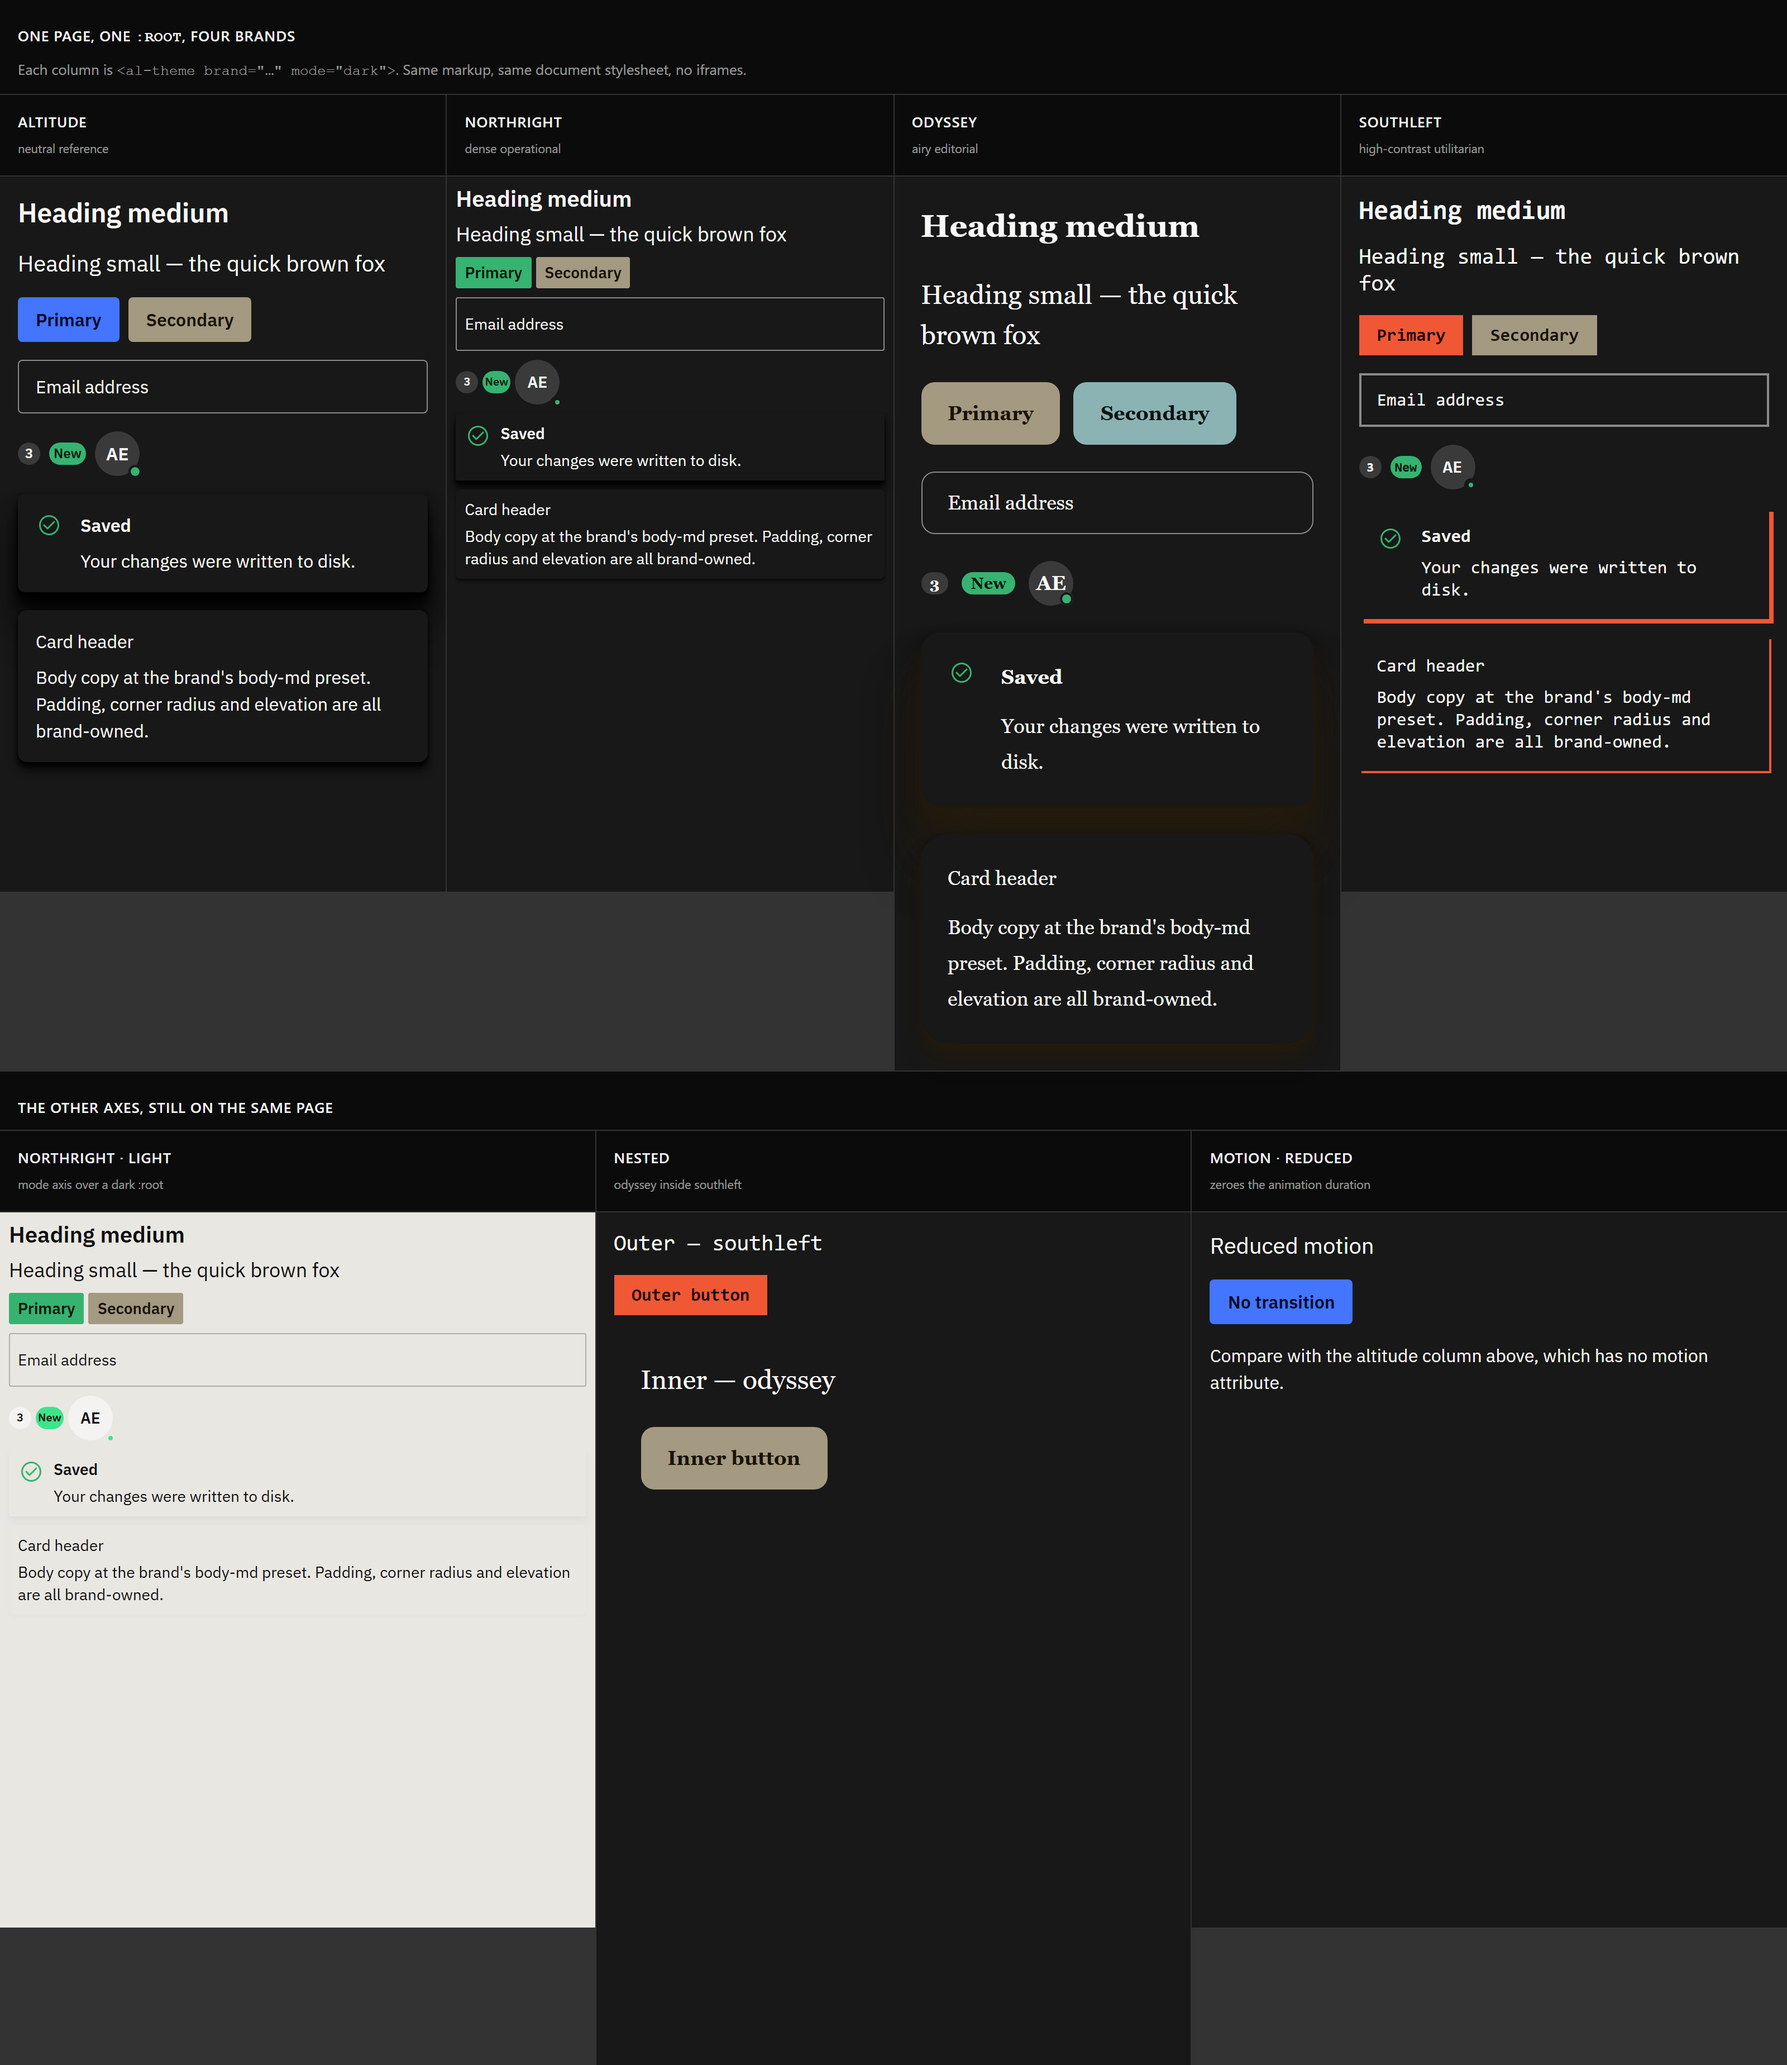
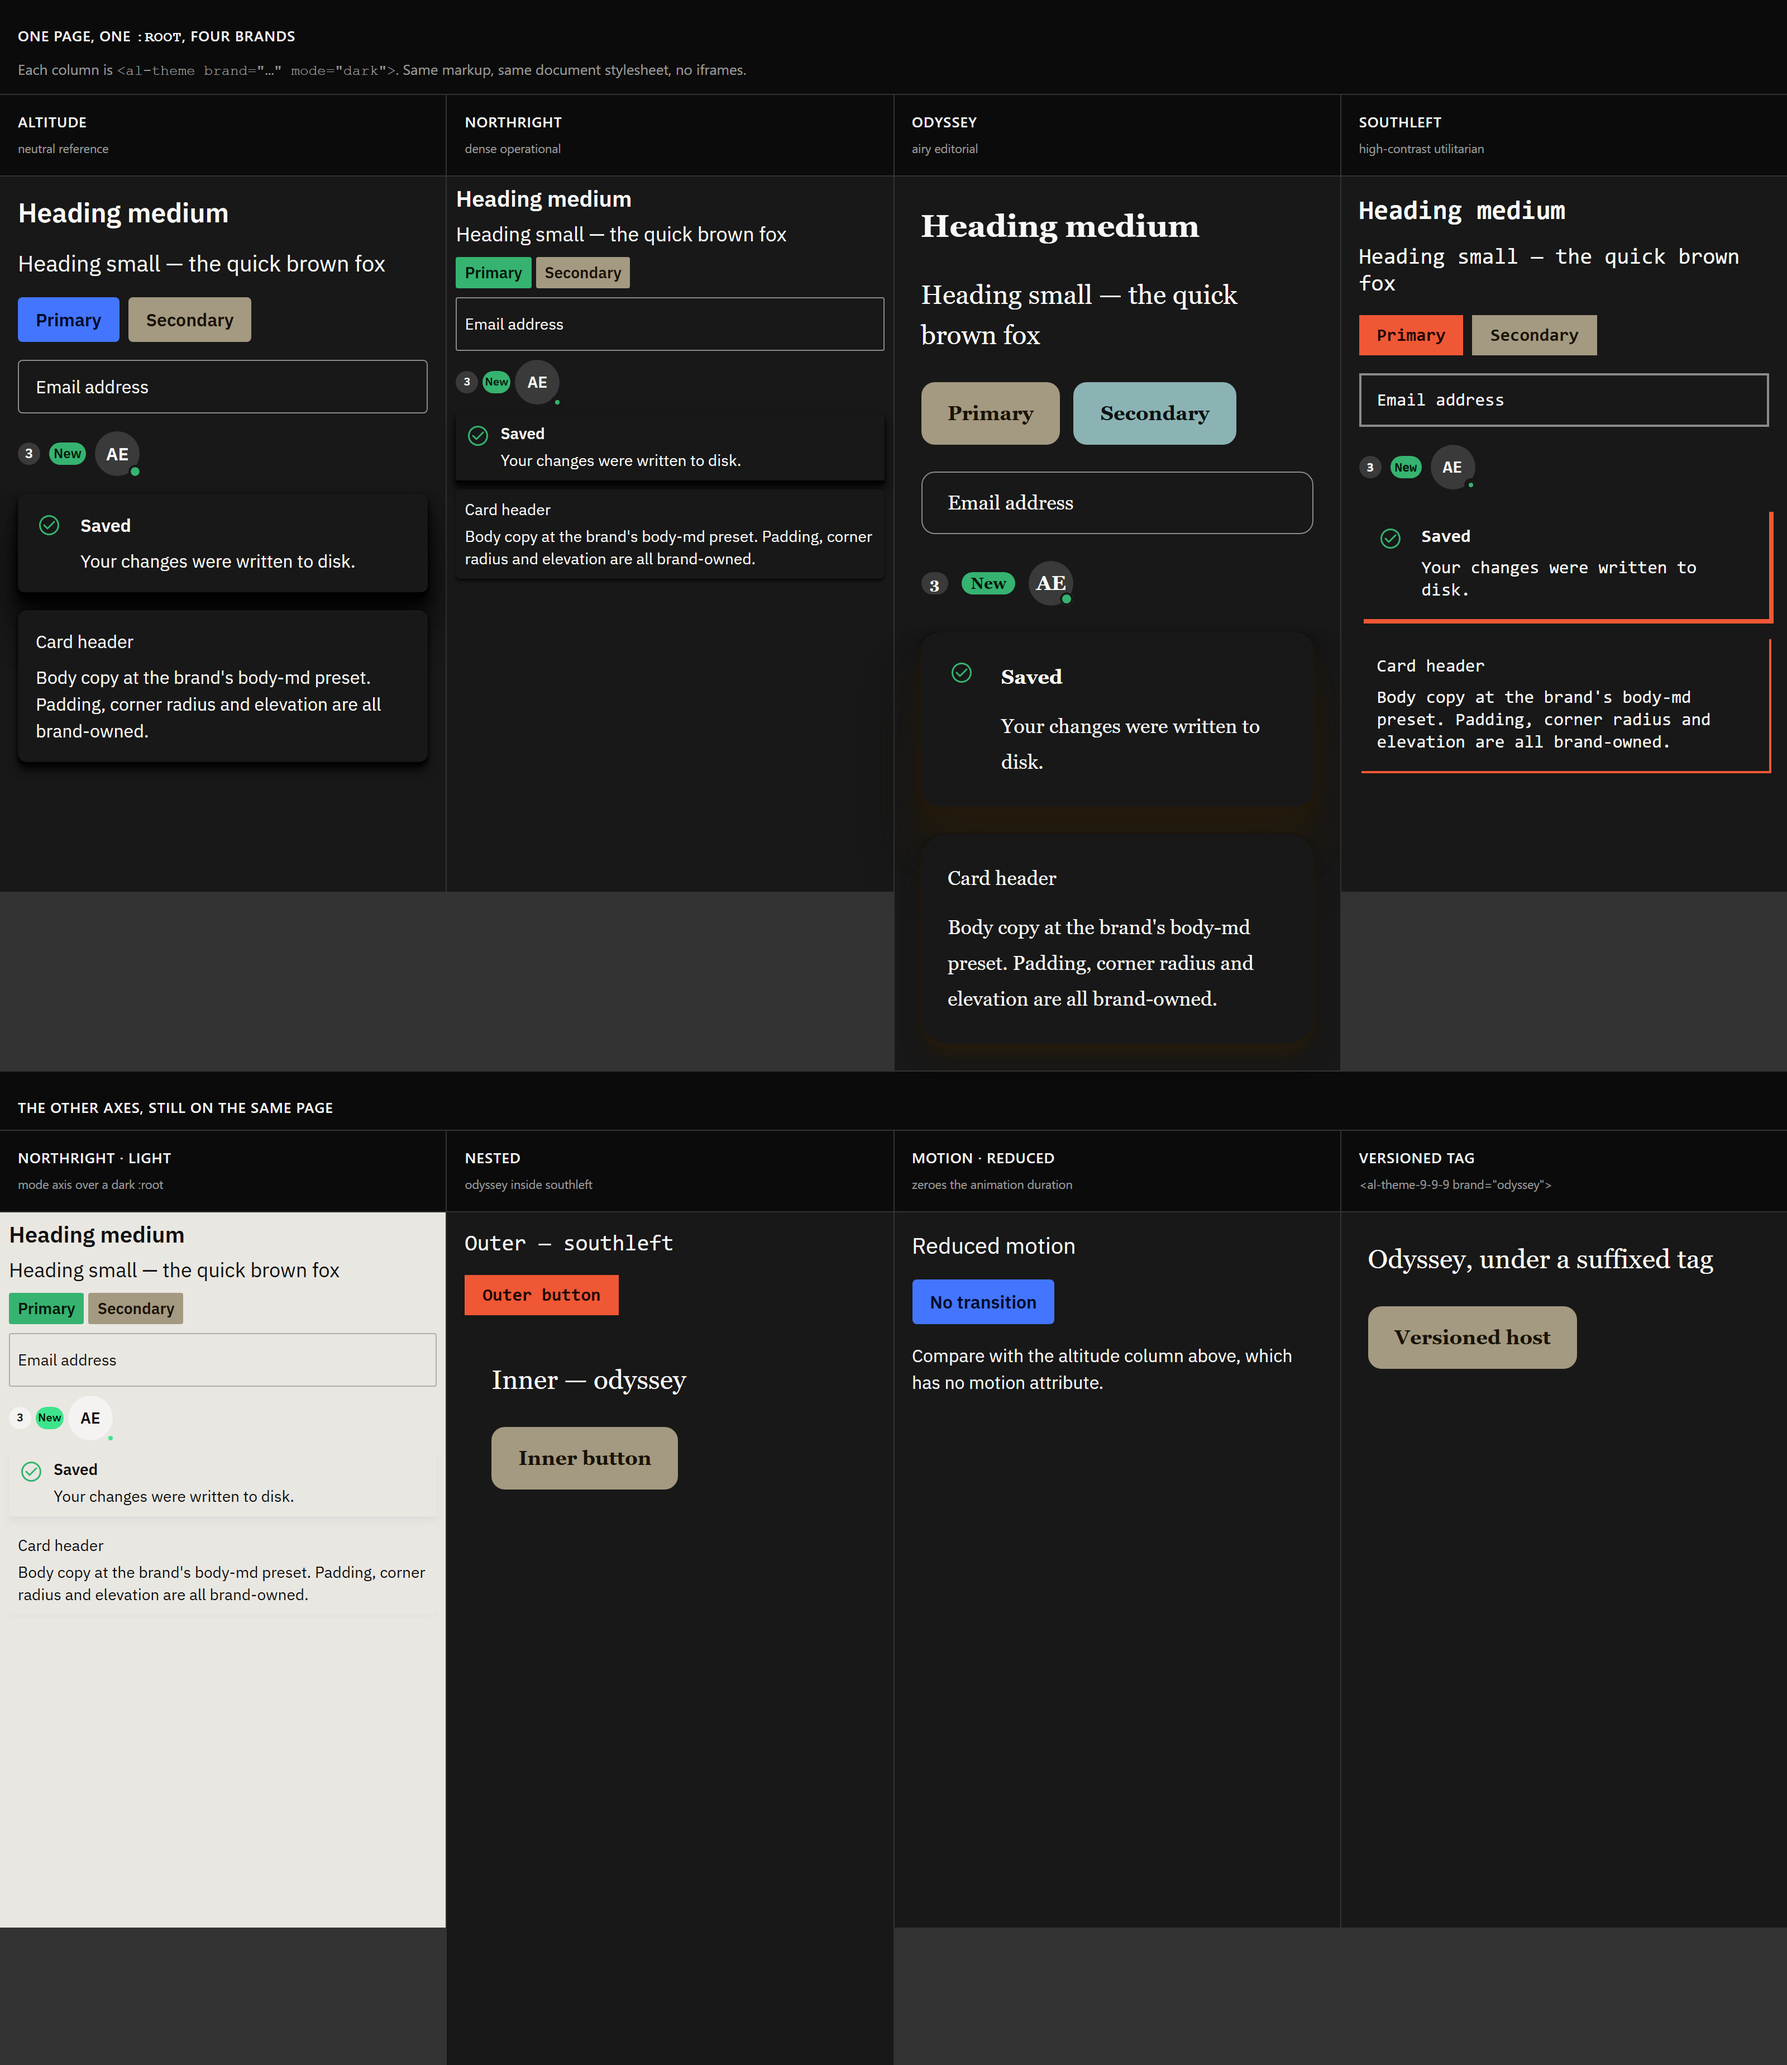
test(theme): prove the scoped blocks survive a versioned registry tag (T2)
The third leg of T2's spike, and the one that decided the approach. Option B
(a document-level `al-theme[brand='x']` rule) loses under
`registerAltitude({ mode: 'versioned' })`, where the tag becomes
`al-theme-1-0-0` and a type selector matches nothing. `:host` matches whatever
the host element's tag is and `static styles` belongs to the class, so the
scoped blocks travel with it.

Measured rather than argued: the harness registers the component under
`al-theme-9-9-9` and `check-scoped-theming.mjs` asserts the tag really is
suffixed and that `al-button` inside it resolves to odyssey's
`600 18px/32px Georgia` — identical to the plain-tag odyssey column.

The other two legs were already covered by the four sibling columns (distinct
computed values) and the nested odyssey-inside-southleft column.

diff --git a/.altitude/visual-compare/harness/scoped.js b/.altitude/visual-compare/harness/scoped.js
@@ -10,7 +10,23 @@
 // `bundle.js` is imported rather than per-component modules because it is the
 // one entry that pulls in `<al-theme>` alongside everything the columns render.
 
-import '../../../libs/al-web-components/dist/components/bundle/bundle.js';
+import { ALTheme } from '../../../libs/al-web-components/dist/components/bundle/bundle.js';
+import { registerAltitude } from '../../../libs/al-web-components/dist/directives/register.js';
+
+// T4.6 registry, `versioned` mode: `<al-theme-9-9-9>`. This is the case a
+// document-level `al-theme[brand='x']` rule could not have served — the tag is
+// not `al-theme` — and it is why the spec rejected that option. `:host` matches
+// whatever the host element's tag is, and `static styles` belongs to the class,
+// so the scoped blocks come along. Asserted, not assumed, by
+// `check-scoped-theming.mjs`.
+//
+// The trivial subclass is a harness artefact, not part of the mechanism: this
+// page sets `alAutoRegistry = true`, so `ALTheme` itself is already bound to
+// `al-theme`, and `customElements.define` refuses to reuse a constructor. A
+// real versioned consumer sets `alAutoRegistry = false` and passes `ALTheme`
+// straight in. `static styles` is inherited either way.
+class ALThemeVersioned extends ALTheme {}
+registerAltitude({ mode: 'versioned', suffix: '9-9-9' }, [[ALTheme.el, ALThemeVersioned]]);
 
 const BRANDS = [
   ['altitude', 'neutral reference'],
@@ -98,7 +114,7 @@ document.getElementById('axes').innerHTML = [
       </al-theme>
     </div>`,
   },
-  // The motion axis (R5). `al-heading` transitions on
+  // The motion axis (R5). `al-button`'s root transitions on
   // `--al-theme-animation-duration`.
   column({
     title: 'motion · reduced',
@@ -110,6 +126,17 @@ document.getElementById('axes').innerHTML = [
       <al-button>No transition</al-button>
       <p>Compare with the altitude column above, which has no motion attribute.</p>`,
   }),
+  // The versioned registry (T4.6). Same class, tag `al-theme-9-9-9`.
+  `
+    <div class="col">
+      <h2>versioned tag<small>&lt;al-theme-9-9-9 brand="odyssey"&gt;</small></h2>
+      <al-theme-9-9-9 brand="odyssey" mode="dark" data-probe="versioned">
+        <div class="surface">
+          <al-heading variant="sm" tagName="h3">Odyssey, under a suffixed tag</al-heading>
+          <al-button>Versioned host</al-button>
+        </div>
+      </al-theme-9-9-9>
+    </div>`,
 ].join('');
 
 // Signal readiness to the screenshot driver.

diff --git a/.altitude/visual-compare/harness/scoped.html b/.altitude/visual-compare/harness/scoped.html
@@ -34,7 +34,7 @@
     <header>
       <h1>The other axes, still on the same page</h1>
     </header>
-    <div class="grid grid--3" id="axes"></div>
+    <div class="grid" id="axes"></div>
 
     <script type="module" src="./scoped.js"></script>
   </body>

diff --git a/.altitude/visual-compare/harness/scoped.css b/.altitude/visual-compare/harness/scoped.css
@@ -35,10 +35,6 @@ header p {
   border-block: 1px solid #333;
 }
 
-.grid--3 {
-  grid-template-columns: repeat(3, 1fr);
-}
-
 .col > h2 {
   margin: 0;
   padding: 0.75rem 1rem;
